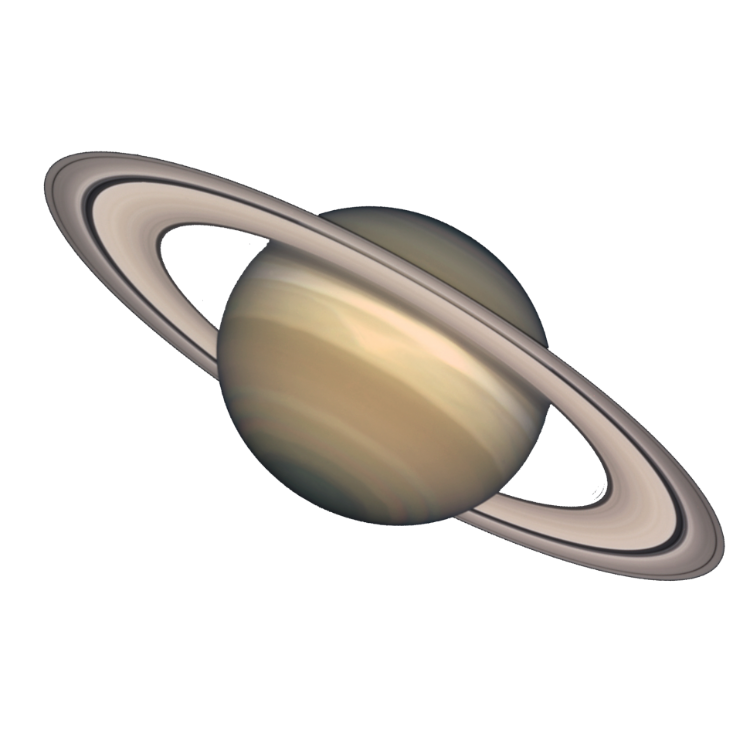
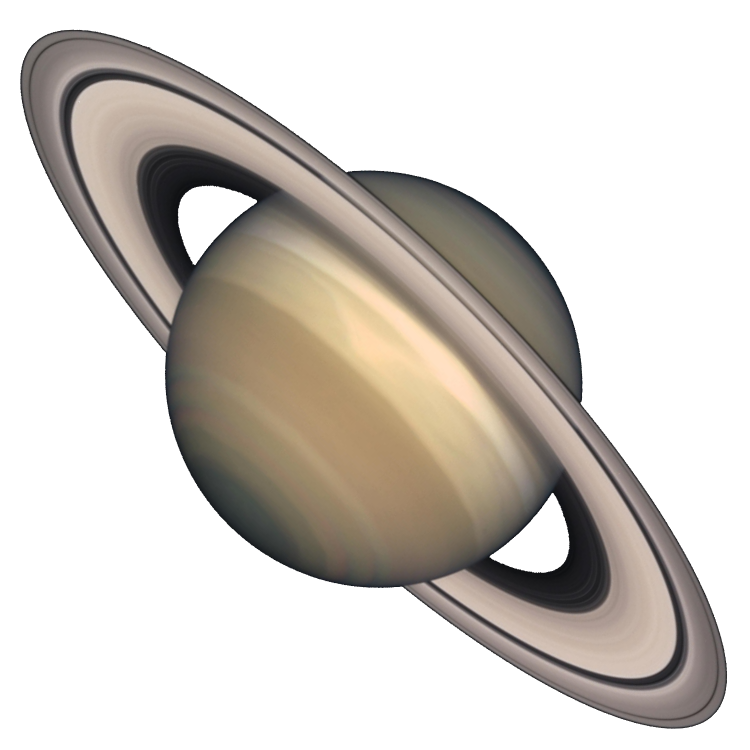
Worked on menu and other things

diff --git a/webpages/solaris/index.html b/webpages/solaris/index.html
@@ -38,7 +38,7 @@
 
 			var sidebarState = "closed";
 			var $sidebar = $('.sidebarContainer');
-			var $close = $('.sidebar .close');
+			var $close = $('#sidebar .close');
 
 			// -- Website controls --
 			// Shows button
@@ -89,14 +89,19 @@
 					$sidebar.find(".info").empty();
 					$sidebar.find(".info").append($("<img/>").attr({alt: "Picture of " + object.data.name + ", from " + object.data.img, src: ("media/planetImgs/" + object.data.name + ".png")}));
 					$sidebar.find(".info").append("<br/><br/>");
+					$sidebar.find(".info").append("<p>The surface temperature of " + object.data.name + ".</p>");
+					$sidebar.find(".info").append("<br/>");
 					$sidebar.find(".info").append("<p>" + object.data.name + " has a mass of " + (object.data.mass).toPrecision(2) + " kilograms.</p>");
 					$sidebar.find(".info").append("<p>Its volume is " + (object.data.volume).toPrecision(2) + " square metres.</p>");
 					$sidebar.find(".info").append("<p>It has a density of " + Math.round(object.data.density) + " kilogram per square metre.</p>");
-					$sidebar.find(".info").append("<br/>");
-					$sidebar.find(".info").append("<p>" + object.data.name + " takes " + Math.round(object.data.orbitDuration)  + " days to orbit.</p>");
-					$sidebar.find(".info").append("<p>It travels with a speed of " + Math.round(object.data.speed)  + " metres per second.</p>");
+					if (object.class === "Planetoid")
+					{
+						$sidebar.find(".info").append("<br/>");
+						$sidebar.find(".info").append("<p>" + object.data.name + " takes " + Math.round(object.data.orbitDuration)  + " days to orbit " + (object.orbits.data.name).toLowerCase() + ".</p>");
+						$sidebar.find(".info").append("<p>It travels with an average speed of " + Math.round(object.data.speed)  + " metres per second, relative to " + (object.orbits.data.name).toLowerCase() + ".</p>");
+					}
 					$sidebar.find(".info").append("<hr/>");
-					$sidebar.find(".info").append($("<a>More info</a>").attr({href: ("https://en.wikipedia.org/wiki/" + object.data.name), target: "_blank"}).css({color: object.data.color}) );
+					$sidebar.find(".info").append($("<a>More info</a>").attr({href: ("https://en.wikipedia.org/wiki/" + object.data.name), target: "_blank"}).css({color: object.data.color}));
 				}
 				if (sidebarState === "closed")
 				{
@@ -127,10 +132,6 @@
 				this.orbitLength = (this.speed * (this.orbitDuration * 24 * 60 * 60)); // m
 			}
 
-			// Main constructor
-			function Main()
-			{}
-
 			// Space rock constructor
 			function SpaceRock(name, orbitRadius, orbits)
 			{
@@ -158,9 +159,9 @@
 					{
 						position: [this.tag.position.x, (this.tag.position.y + 4)],
 						content: this.data.name,
-						fillColor: "#212121",
+						fillColor: "#424242",
 						justification: "center",
-						fontFamily: "noto sans",
+						fontFamily: "noto sans"
 					})
 				]);
 				this.tagLabel.visible = false;
@@ -183,6 +184,7 @@
 			// Planetoid constructor, is a SpaceObject and a SpaceRock
 			function Planetoid(name, orbitRadius, orbits, data)
 			{
+				this.class = "Planetoid";
 				SpaceRock.call(this, name, orbitRadius, orbits);
 				this.data = data;
 				SpaceObject.call(this);
@@ -193,6 +195,7 @@
 			// Star constructor, is a SpaceObject
 			function Star(name, diameter, data)
 			{
+				this.class = "Star";
 				this.img = new Raster(name);
 				this.data = data;
 				SpaceObject.call(this);
@@ -205,6 +208,8 @@
 					size: [this.diameter, this.diameter],
 					position: this.center.position
 				});
+
+				this.tagLabel.position = [this.center.position.x, (this.center.position.y - (this.diameter / 2) - (canHeight / 40))];
 			}
 			Star.prototype = Object.create(SpaceObject.prototype);
 
@@ -229,7 +234,8 @@
 			{
 				this.center.rotate(this.orbitSpeed, this.orbits.center.position);
 				this.img.position = this.center.position;
-				this.tagLabel.position = [this.center.position.x, (this.center.position.y - (this.diameter / 2) - 20)];
+
+				this.tagLabel.position = [this.center.position.x, (this.center.position.y - (this.diameter / 2) - (canHeight / 40))];
 			}
 
 			// Moon constructor, is a Planetoid
@@ -258,12 +264,17 @@
 				this.center.rotate(this.orbits.orbitSpeed * 11, this.orbit.position);
 				this.img.position = this.center.position;
 
-				this.tagLabel.position = [this.center.position.x, (this.center.position.y - (this.diameter / 2) - 20)];
+				this.tagLabel.position = [this.center.position.x, (this.center.position.y - (this.diameter / 2) - (canHeight / 40))];
 			}
 
-			// Stars
-			function stars()
+			function background()
 			{
+				new Path.Rectangle(
+				{
+					point: [0, 0],
+					size: [canWidth, canHeight],
+					fillColor: "#212121"
+				});
 				var path = new Path.Circle(systemCenter, 3);
 				path.fillColor = new Color(1, 0.85);
 				var defineStar = new SymbolDefinition(path);
@@ -284,10 +295,10 @@
 				(
 					"sun",
 					Math.round(canHeight / 4.5),
-					data: new Data
+					new Data
 					(
 						"The Sun",
-						"#ffcc4c",
+						"#FFAE4C",
 						"http://i1-win.softpedia-static.com/screenshots/Sun-Space-Screensaver_1.jpg",
 						1.98855e30,
 						6.957e8,
@@ -392,7 +403,7 @@
 					(
 						"Saturn",
 						"#eec87d",
-						"http://amazingspace.org/uploads/resource_image/image/82/ff_saturn_lg.png",
+						"https://photojournal.jpl.nasa.gov/jpegMod/PIA03158_modest.jpg",
 						5.6836e26,
 						5.8232e7,
 						9.69e3,
@@ -468,22 +479,14 @@
 					moon.orbit.selected = true;
 				}
 
-				sun.set(); // Sets some values of the sun object
-				/*selected(); // Shows invisible paths*/
+				// selected(); // Shows invisible paths
 
 				console.log("All objects:");
 				console.log(solarSystem);
 			}
 
-			// -- Events --
-			// The resize event
-			view.onResize = function(event)
-			{
-
-			}
-
 			// -- Actions --
-			stars(); // Draws stars in the background
+			background(); // Draws stars and sets the background
 			setupSolarsystem(); // Sets everything in the solar system
 
 			console.log("");
@@ -505,14 +508,6 @@
 		:focus, :active {
 			outline: none;
 		}
-
-		::-webkit-scrollbar {
-			display: none;
-		}
-
-		body {
-			background-color: #212121;
-        }
 
         button {
             background-color: transparent;
@@ -545,7 +540,7 @@
             right: 0
 		}
 
-        .sidebar {
+        #sidebar {
             background-color: #eeeeee;
 			box-shadow: 0px 1px 2px rgba(0,0,0,0.2);
 			transition: 0.4s;
@@ -558,7 +553,7 @@
 			overflow: auto;
         }
 
-		.sidebar:hover {
+		#sidebar:hover {
  			box-shadow: 0px 4px 10px rgba(0,0,0,0.2);
 		}
 
@@ -571,16 +566,16 @@
 		}
 
 		.close i {
-			font-size: 1.25vw;
+			font-size: 1.5em;
 			color: rgba(255, 255, 255, 0.75);
 		}
 
 		.text h2 {
 			text-align: center;
 			font-weight: normal;
-			font-size: 2.75vh;
+			font-size: 2em;
 			color: #ffffff;
-			padding: 2vw;
+			padding: 1.5vw;
 		}
 
 		.text .info {
@@ -608,30 +603,62 @@
 		}
 
 		/* -- Menu -- */
-		.menu {
-			display: none;
-			color: rgba(255, 255, 255, 0.65);
-			transition: 0.4s;
+		#menu {
 			position: absolute;
-			margin: 10px;
-			z-index: 10;
+			margin: 1rem;
 		}
 
-		.menu i { font-size: 1.25vw; }
+		.menuButton {
+			padding: 1em;
+			margin: 1em 0em;
+			border-radius: 100%;
+			display: block;
+			background-color: #f5f5f5;
+			color: #424242;
+			box-shadow: 0px 4px 4px rgba(0,0,0,0.15);
+			transition: 0.4s;
+		}
 
-		.menu:hover {
-			color: rgba(255, 255, 255, 0.85);
+		.menuButton i { font-size: 3em; }
+
+		.menuButton:hover {
+			box-shadow: 0px 6px 8px rgba(0,0,0,0.30);
+		}
+
+		.option {
+			padding: 0.75em;
+			margin: 1em 0.75em;
+			border-radius: 100%;
+			display: block;
+			background-color: #eeeeee;
+			color: #616161;
+			box-shadow: 0px 4px 4px rgba(0,0,0,0.15);
+			transition: 0.4s;
+		}
+
+		.option i {
+			float: left;
+			font-size: 2em;
+		}
+
+		.option:hover {
+			box-shadow: 0px 6px 8px rgba(0,0,0,0.30);
 		}
 	</style>
 </head>
 <body>
-	<button class="menu"><i class="material-icons ">menu</i></button>
-	<div class="options">
+	<div id="overlay"></div>
+	<div id="menu">
+		<button class="menuButton"><i class="material-icons ">menu</i></button>
+		<div class="options">
+			<button class="option music"><i class="material-icons ">volume_up</i></button>
+			<button class="option about"><i class="material-icons ">info_outline</i></button>
+		</div>
 	</div>
-	<div class="screen">
+	<div id="screen">
 	    <div class="canvas">
 	        <canvas id="canvas" resize="true"  keepalive="true">
-
+				<button></button>
 			</canvas>
 	    </div>
 		<div class="images">
@@ -652,7 +679,7 @@
 		</div>
 	</div>
 	<div class="sidebarContainer">
-	    <div class="sidebar">
+	    <div id="sidebar">
 	        <button class="close"><i class="material-icons">close</i></button>
 			<div class="text">
 				<div class="header">

diff --git a/javascript/index.js b/javascript/index.js
@@ -1,8 +1,3 @@
-/*
----BUGS---
-- Hide card only works once
-- Nav extended fails to work properly sometimes (Doesn't fill screen)
-*/
 $(document).ready(function()
 {
 	// Jquery vars
